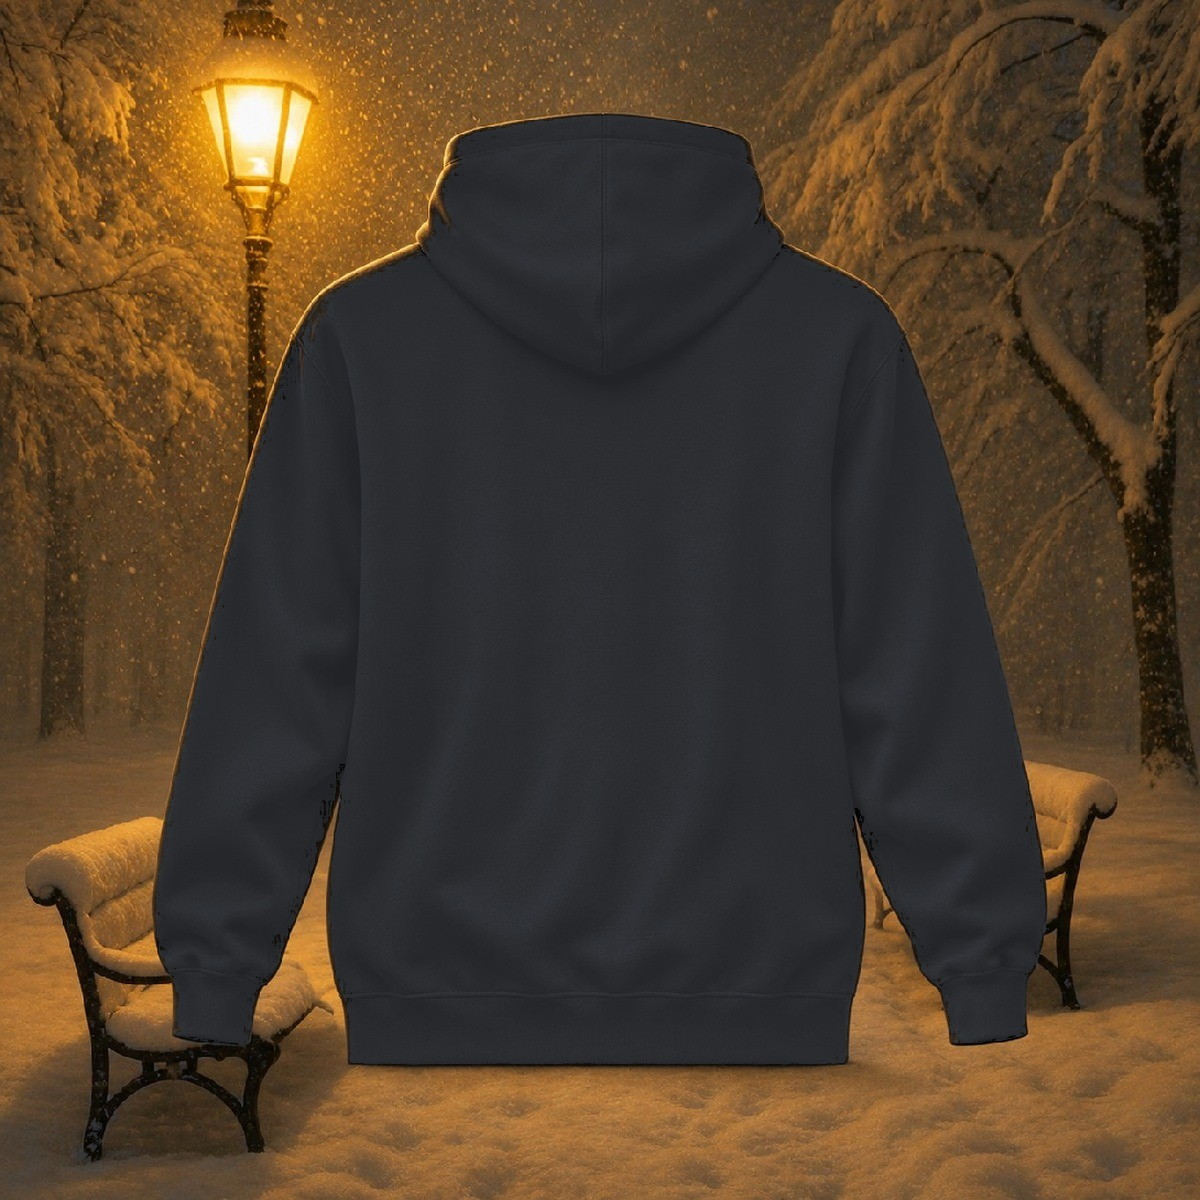
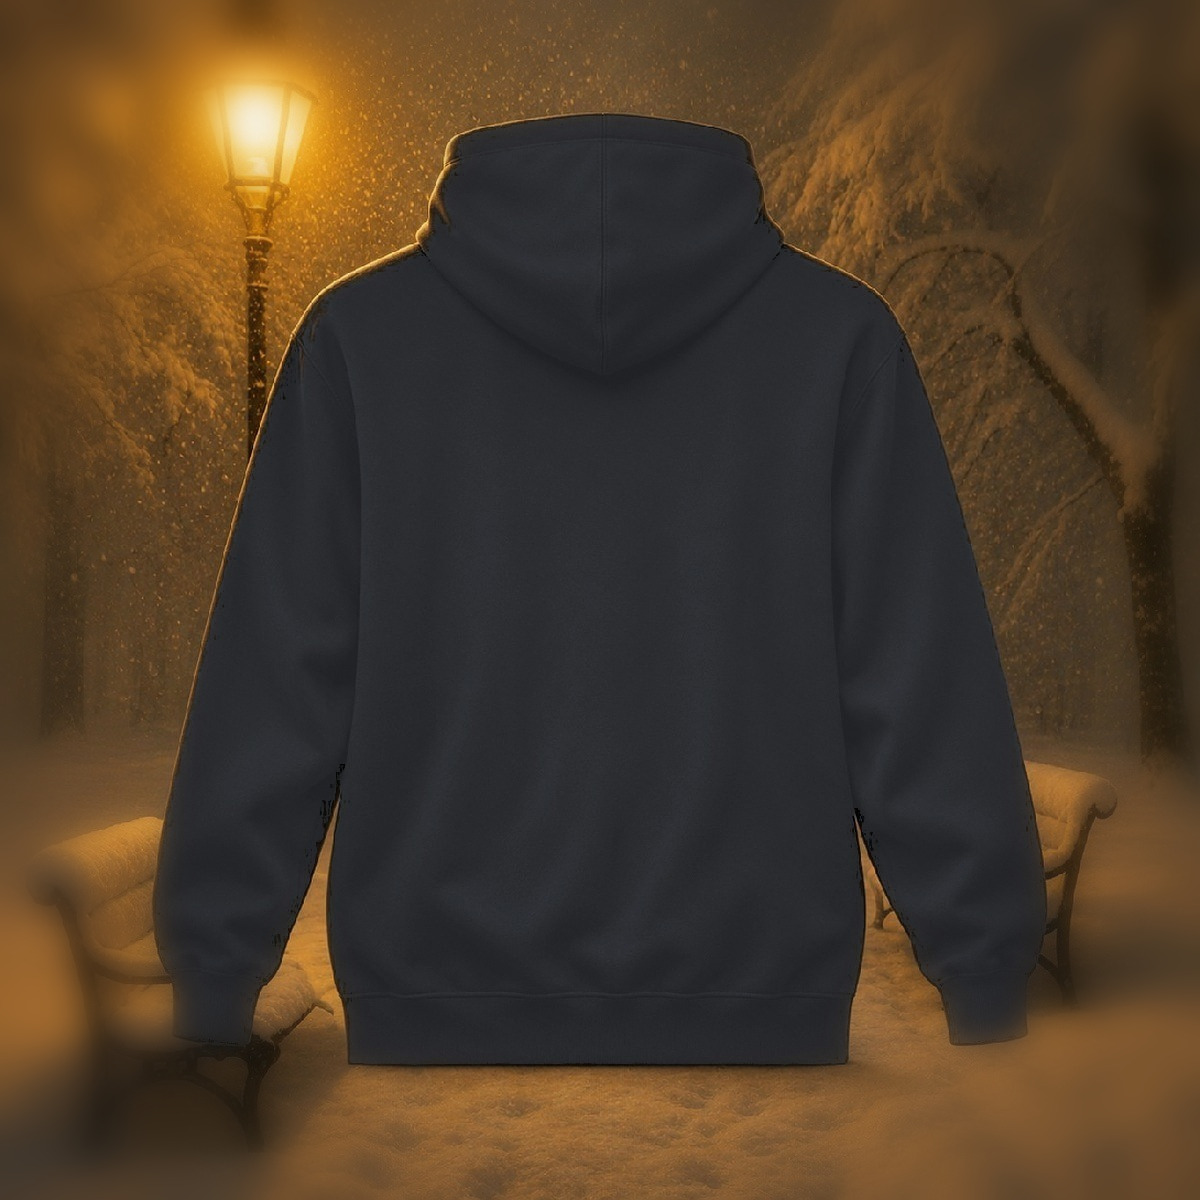
Freebuff: Bra nu lägg lite skugga på hoodien och få den att se mind...

diff --git a/src/data/products.ts b/src/data/products.ts
@@ -13,8 +13,8 @@ export const hoodieColors: ProductColor[] = [
     id: "dark-teal",
     name: "Dark Teal",
     hex: "#1f4948",
-    image: "/media/hoodie/lund-hoodie-domkyrkan-dark-teal-fram.jpg",
-    backImage: "/media/hoodie/lund-hoodie-domkyrkan-dark-teal-bak.jpg",
+    image: "/media/hoodie/lund-hoodie-domkyrkan-dark-teal-fram.jpg?v=2",
+    backImage: "/media/hoodie/lund-hoodie-domkyrkan-dark-teal-bak.jpg?v=2",
     alt: "Dark Teal Lund hoodie med inramat Domkyrkan-motiv – Lund merch från Kollektionen av Lund",
     backAlt: "Dark Teal Lund hoodie med slät rygg – baksidan av Lund hoodien",
   },
@@ -22,8 +22,8 @@ export const hoodieColors: ProductColor[] = [
     id: "navy",
     name: "Navy",
     hex: "#1e2c46",
-    image: "/media/hoodie/lund-hoodie-domkyrkan-navy-fram.jpg",
-    backImage: "/media/hoodie/lund-hoodie-domkyrkan-navy-bak.jpg",
+    image: "/media/hoodie/lund-hoodie-domkyrkan-navy-fram.jpg?v=2",
+    backImage: "/media/hoodie/lund-hoodie-domkyrkan-navy-bak.jpg?v=2",
     alt: "Navy Lund hoodie med inramat Domkyrkan-motiv – Lund kläder med stadsmotiv",
     backAlt: "Navy Lund hoodie med slät rygg – Lund tröja från Kollektionen av Lund",
   },
@@ -31,8 +31,8 @@ export const hoodieColors: ProductColor[] = [
     id: "stone",
     name: "Stone",
     hex: "#d8c8b2",
-    image: "/media/hoodie/lund-hoodie-domkyrkan-kram-fram.jpg",
-    backImage: "/media/hoodie/lund-hoodie-domkyrkan-kram-bak.jpg",
+    image: "/media/hoodie/lund-hoodie-domkyrkan-kram-fram.jpg?v=2",
+    backImage: "/media/hoodie/lund-hoodie-domkyrkan-kram-bak.jpg?v=2",
     alt: "Stone Lund hoodie med inramat Domkyrkan-motiv – Lund merch och julklapp med Lund-motiv",
     backAlt: "Stone Lund hoodie med slät rygg – baksidan av Lund tröjan",
   },
@@ -40,8 +40,8 @@ export const hoodieColors: ProductColor[] = [
     id: "burgundy",
     name: "Burgundy",
     hex: "#5e2430",
-    image: "/media/hoodie/lund-hoodie-domkyrkan-bordeaux-fram.jpg",
-    backImage: "/media/hoodie/lund-hoodie-domkyrkan-bordeaux-bak.jpg",
+    image: "/media/hoodie/lund-hoodie-domkyrkan-bordeaux-fram.jpg?v=2",
+    backImage: "/media/hoodie/lund-hoodie-domkyrkan-bordeaux-bak.jpg?v=2",
     alt: "Burgundy Lund hoodie med inramat Domkyrkan-motiv – unik julklapp från Lund",
     backAlt: "Burgundy Lund hoodie med slät rygg – Lund tröja för vintern",
   },
@@ -49,8 +49,8 @@ export const hoodieColors: ProductColor[] = [
     id: "grey-melange",
     name: "Grey Melange",
     hex: "#b7b5b2",
-    image: "/media/hoodie/lund-hoodie-domkyrkan-ljusgra-fram.jpg",
-    backImage: "/media/hoodie/lund-hoodie-domkyrkan-ljusgra-bak.jpg",
+    image: "/media/hoodie/lund-hoodie-domkyrkan-ljusgra-fram.jpg?v=2",
+    backImage: "/media/hoodie/lund-hoodie-domkyrkan-ljusgra-bak.jpg?v=2",
     alt: "Grey Melange Lund hoodie med inramat Domkyrkan-motiv – Lund kläder online",
     backAlt: "Grey Melange Lund hoodie med slät rygg – Lund sweatshirt från Kollektionen av Lund",
   },
@@ -58,8 +58,8 @@ export const hoodieColors: ProductColor[] = [
     id: "dark-grey",
     name: "Dark Grey",
     hex: "#3a3d42",
-    image: "/media/hoodie/lund-hoodie-domkyrkan-dark-grey-fram.jpg",
-    backImage: "/media/hoodie/lund-hoodie-domkyrkan-dark-grey-bak.jpg",
+    image: "/media/hoodie/lund-hoodie-domkyrkan-dark-grey-fram.jpg?v=2",
+    backImage: "/media/hoodie/lund-hoodie-domkyrkan-dark-grey-bak.jpg?v=2",
     alt: "Dark Grey Lund hoodie med inramat Domkyrkan-motiv – Lund merch för vintern",
     backAlt: "Dark Grey Lund hoodie med slät rygg – baksidan av Lund hoodien",
   },
